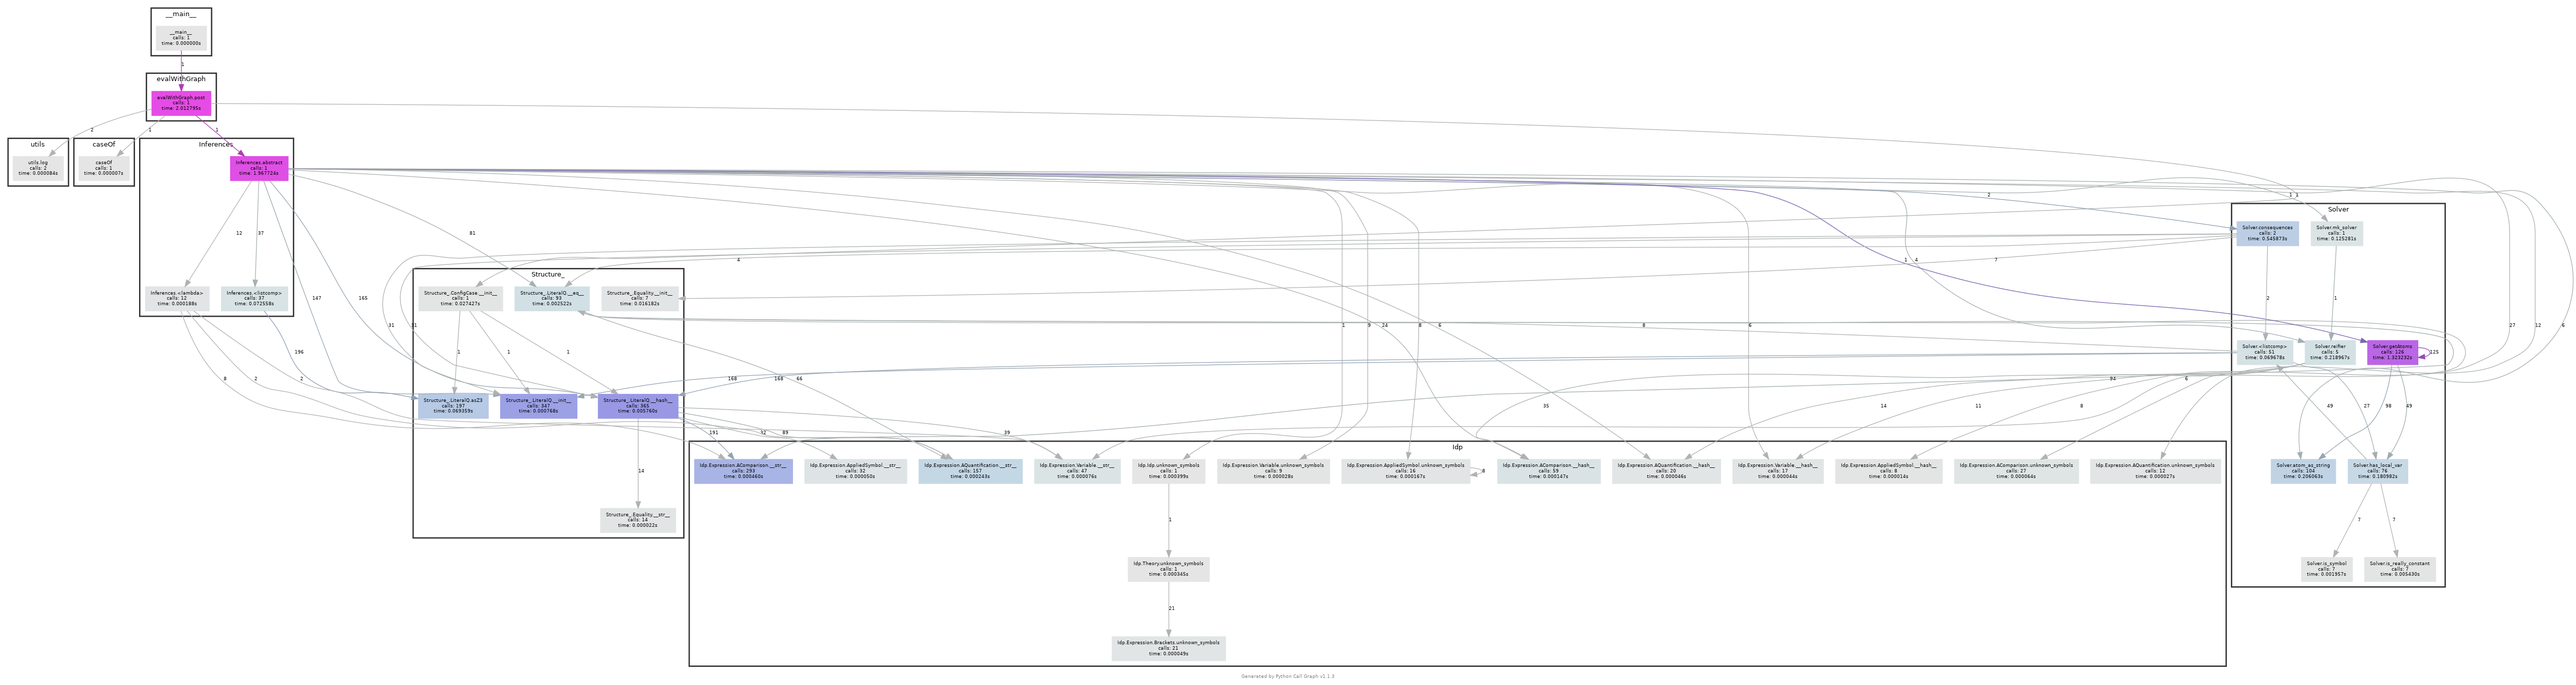
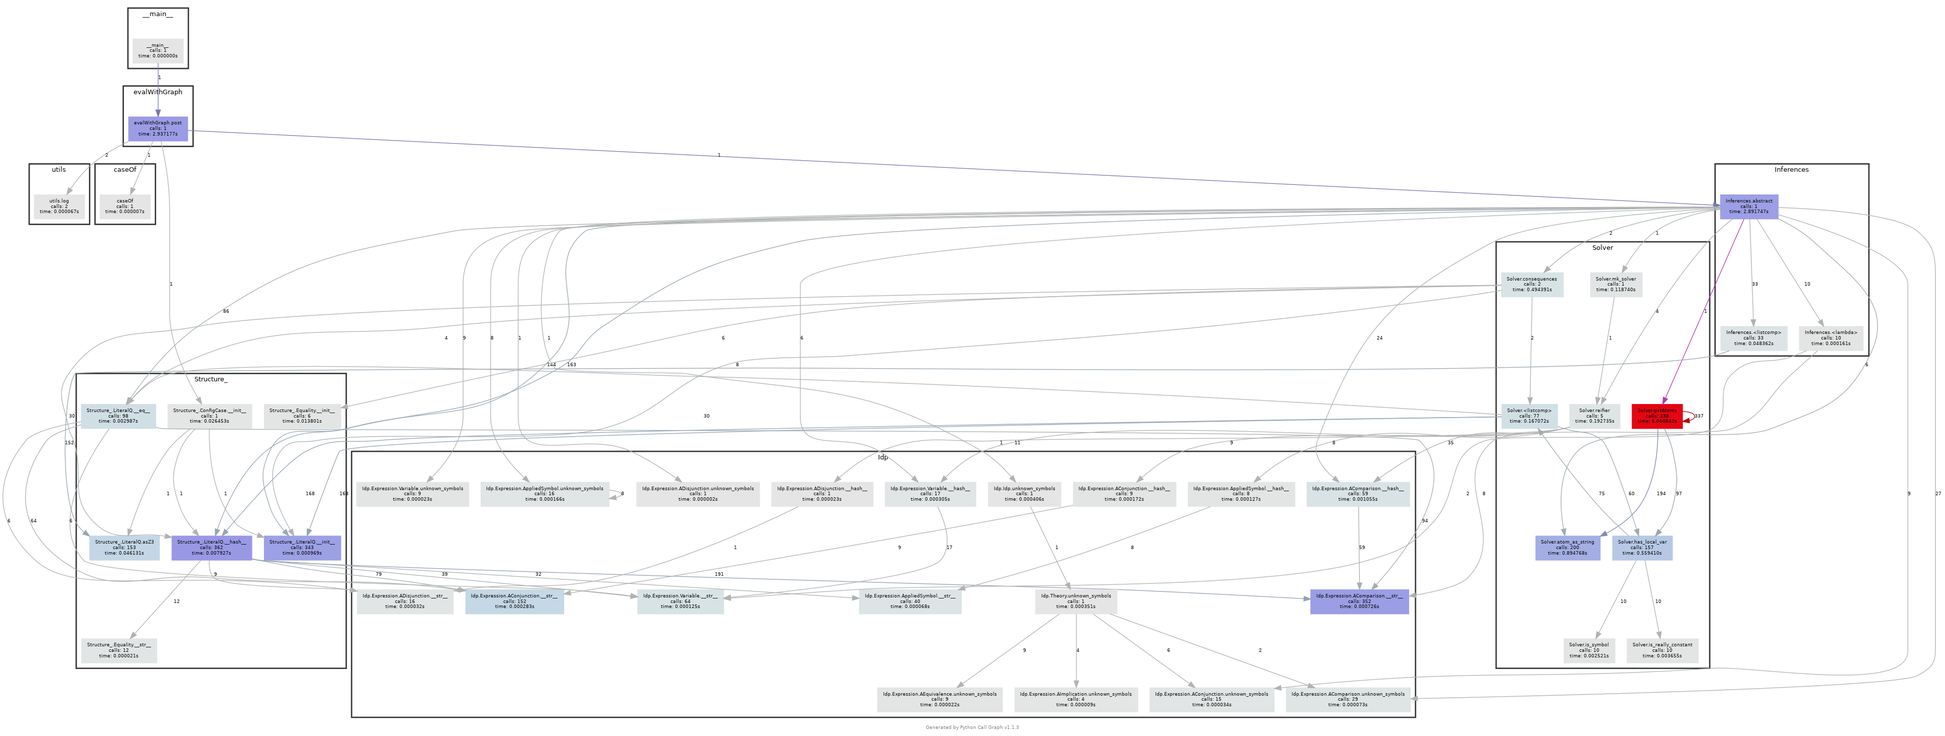
( readme for png files )

diff --git a/rest.py b/rest.py
@@ -17,6 +17,8 @@
     along with Interactive_Consultant.  If not, see <https://www.gnu.org/licenses/>.
 """
 
+with_png = False
+
 import threading
 import traceback
 
@@ -173,8 +175,12 @@ def serve_examples_file(path):
 
 
 api.add_resource(HelloWorld, '/test')
-api.add_resource(eval, '/eval') # use evalWithGraph instead of eval, to generate call graphs.
-api.add_resource(meta, '/meta')
+if with_png:
+    api.add_resource(evalWithGraph, '/eval')
+    api.add_resource(metaWithGraph, '/meta')
+else:
+    api.add_resource(eval, '/eval')
+    api.add_resource(meta, '/meta')
 
 if __name__ == '__main__':
     app.run(debug=True)

diff --git a/docs/README.md b/docs/README.md
@@ -1,0 +1,9 @@
+To generate the *.png files:
+
+* set "with_png = True" at top of rest.py
+* run "python3 rest.py"
+* open browser at localhost:5000
+* exercises all the inferences in the GUI: assert a fact, ask for an explanation, minimize a number, undo expand, ask for a model, ask for abstract models
+* reset "with_png = False" a top of rest.py
+
+
